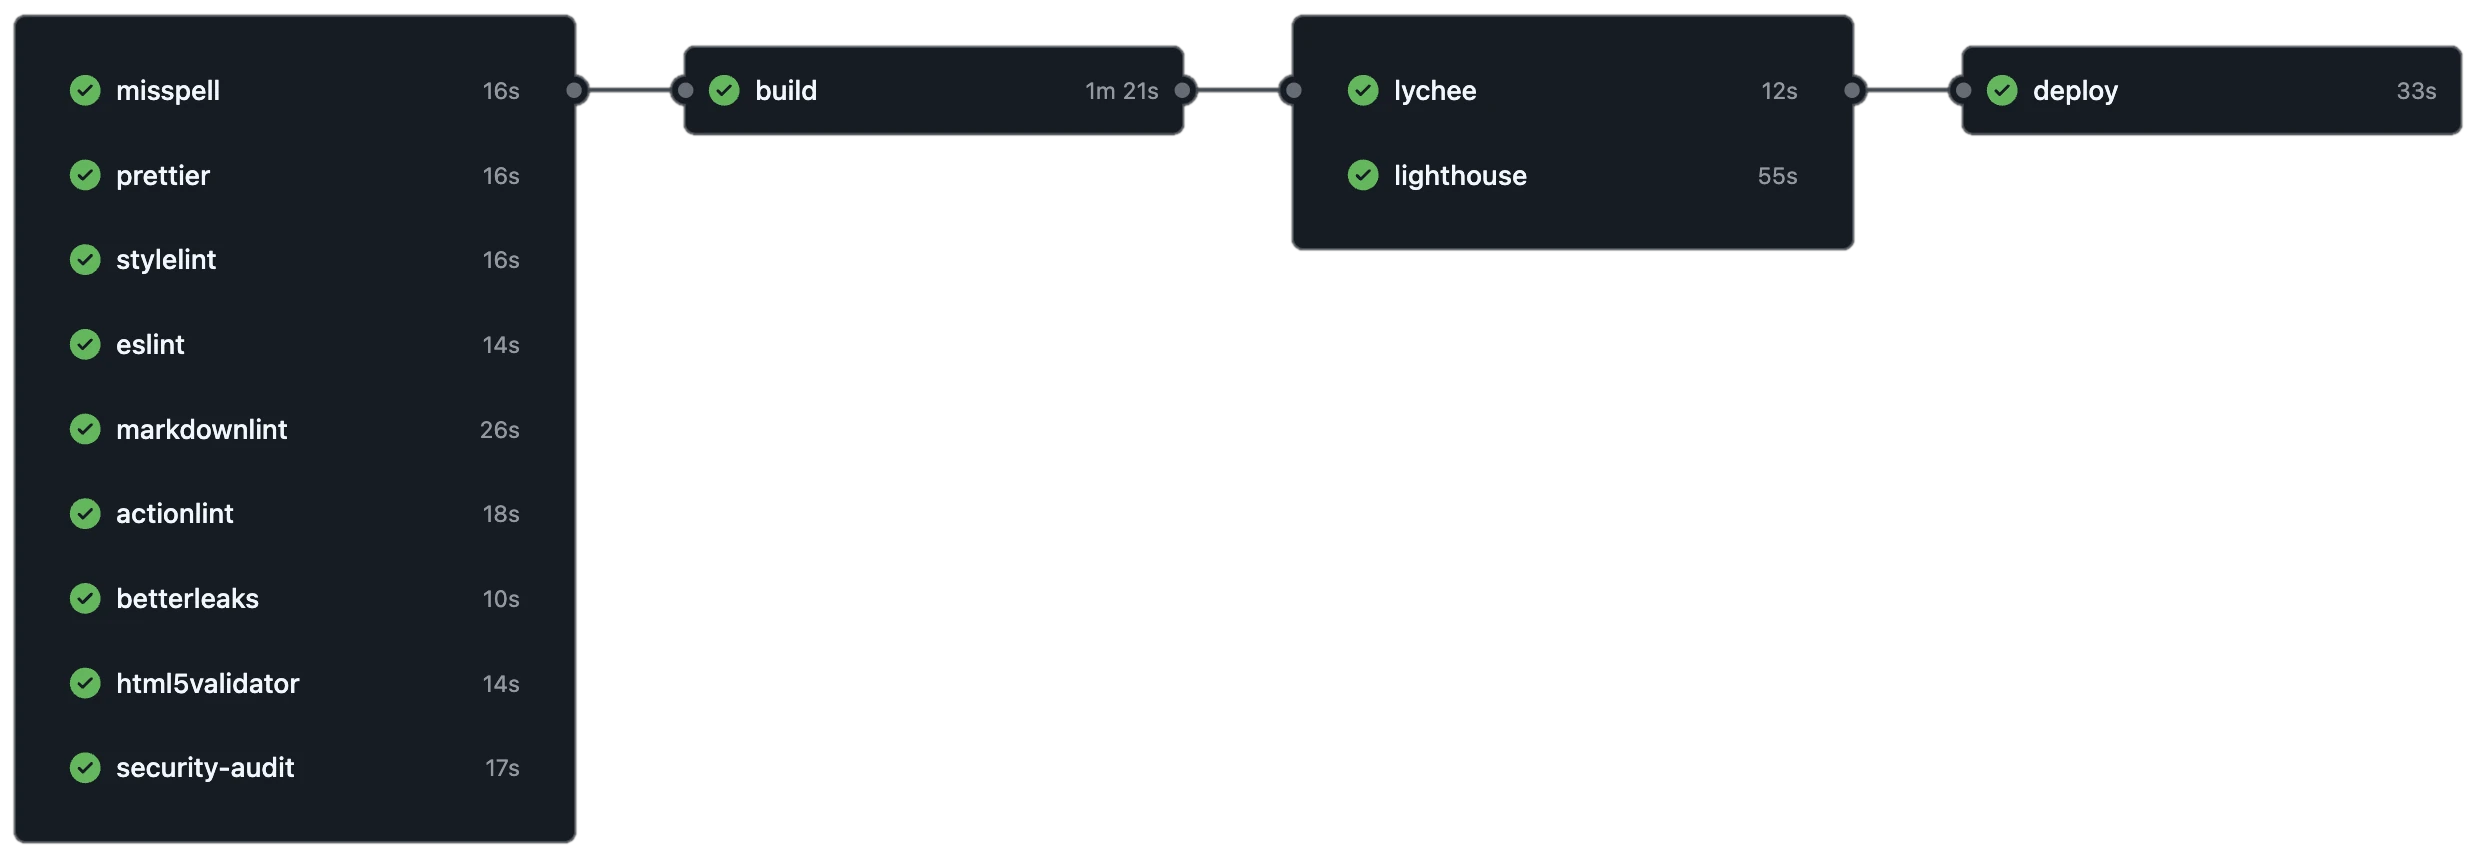
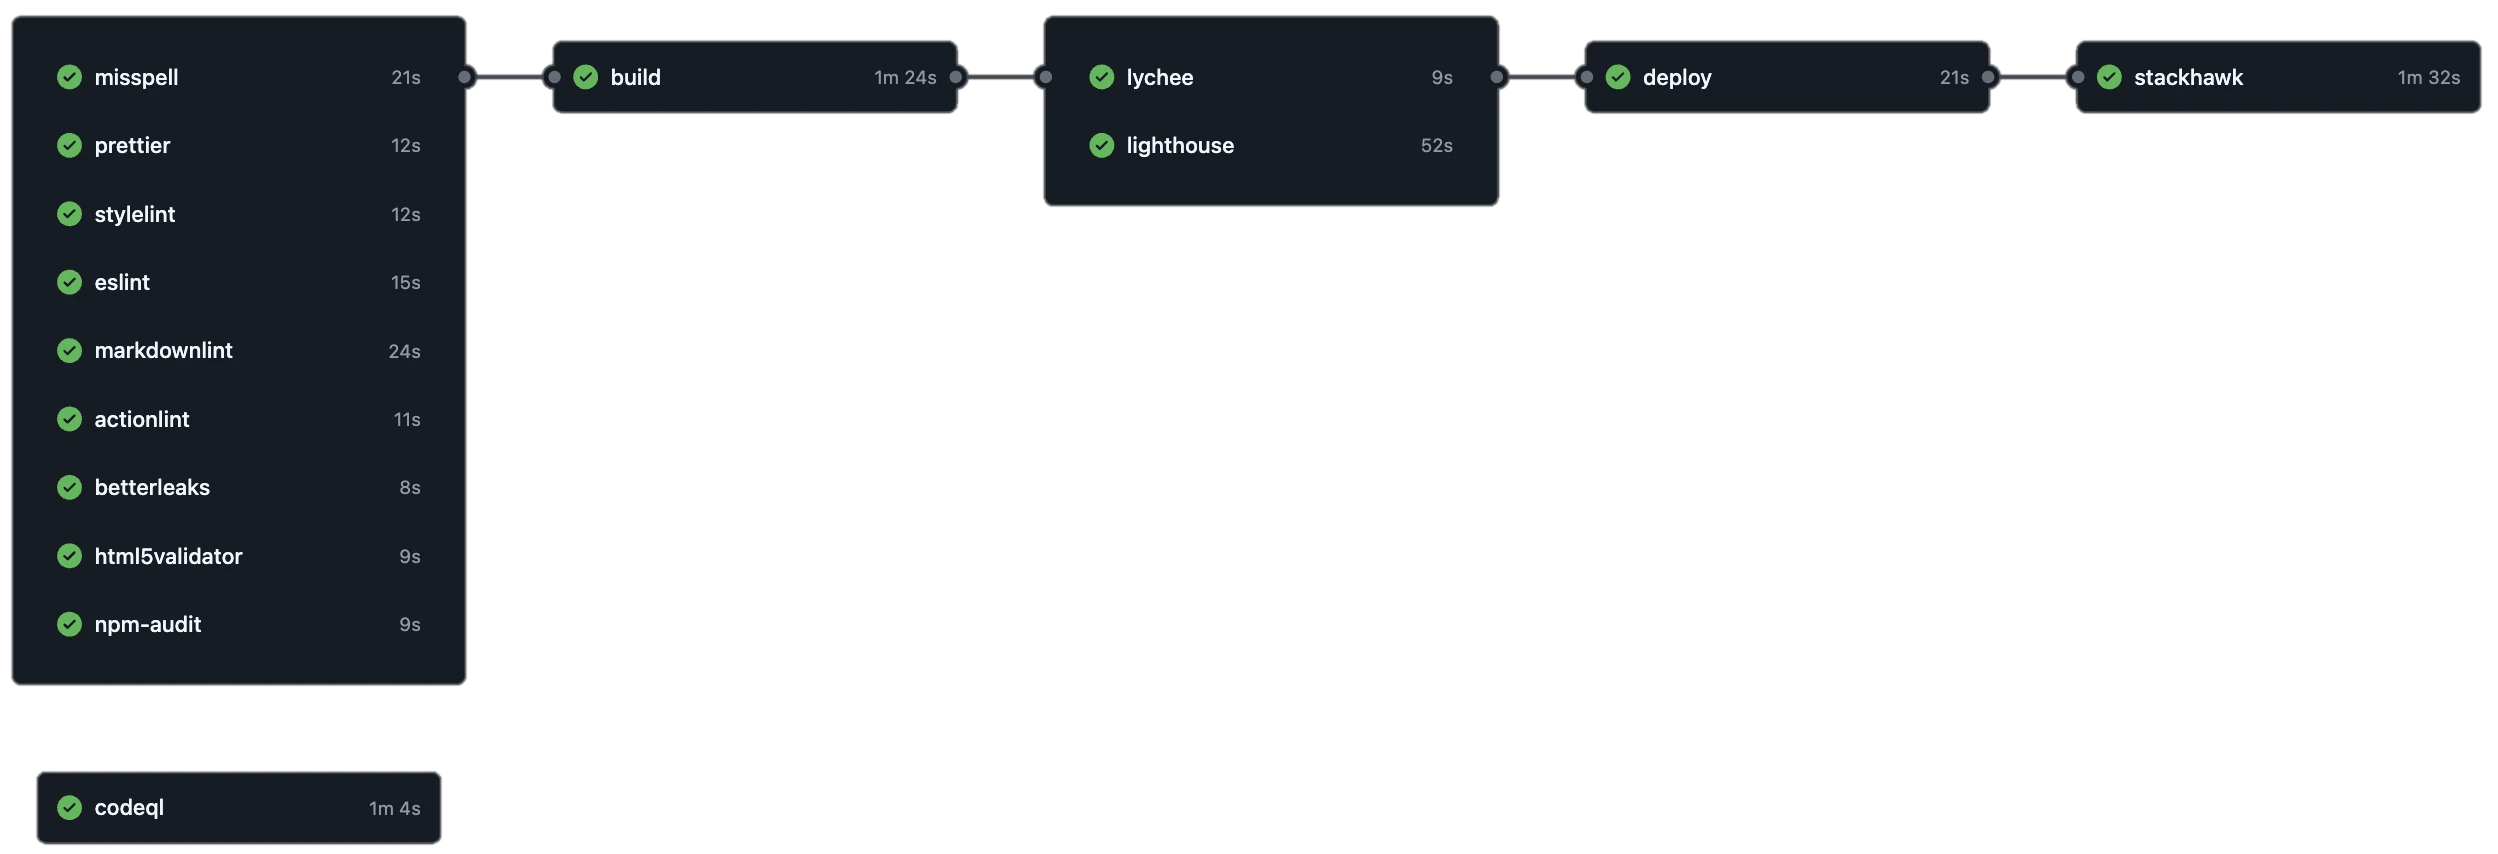
Added new CI/CD image and new job info. Moved Syft-Grype outside of build job.

diff --git a/src/index.html b/src/index.html
@@ -281,7 +281,7 @@
               <button
                 type="button"
                 class="hotspot"
-                style="top: 5%; left: 2%; width: 13%; height: 10%"
+                style="top: 5%; left: 1%; width: 17%; height: 8%"
                 data-description="Scans repository files for common English spelling mistakes and typos in source code and documentation."
                 data-url="https://github.com/golangci/misspell"
                 aria-label="misspell"
@@ -290,7 +290,7 @@
               <button
                 type="button"
                 class="hotspot"
-                style="top: 15%; left: 2%; width: 13%; height: 10%"
+                style="top: 13%; left: 1%; width: 17%; height: 8%"
                 data-description="Verifies that source files adhere to code formatting and style guidelines across the project."
                 data-url="https://prettier.io"
                 aria-label="prettier"
@@ -299,7 +299,7 @@
               <button
                 type="button"
                 class="hotspot"
-                style="top: 25%; left: 2%; width: 13%; height: 10%"
+                style="top: 21%; left: 1%; width: 17%; height: 8%"
                 data-description="Lints CSS and stylesheet files to enforce consistent conventions and catch syntax errors."
                 data-url="https://stylelint.io"
                 aria-label="stylelint"
@@ -308,7 +308,7 @@
               <button
                 type="button"
                 class="hotspot"
-                style="top: 35%; left: 2%; width: 13%; height: 10%"
+                style="top: 29%; left: 1%; width: 17%; height: 8%"
                 data-description="Analyzes JavaScript files to enforce coding standards, best practices, and potential runtime bugs."
                 data-url="https://eslint.org"
                 aria-label="eslint"
@@ -317,7 +317,7 @@
               <button
                 type="button"
                 class="hotspot"
-                style="top: 45%; left: 2%; width: 13%; height: 10%"
+                style="top: 37%; left: 1%; width: 17%; height: 8%"
                 data-description="Checks Markdown documentation for structure, formatting rules, and syntax correctness."
                 data-url="https://github.com/DavidAnson/markdownlint"
                 aria-label="markdownlint"
@@ -326,7 +326,7 @@
               <button
                 type="button"
                 class="hotspot"
-                style="top: 55%; left: 2%; width: 13%; height: 10%"
+                style="top: 45%; left: 1%; width: 17%; height: 8%"
                 data-description="Validates GitHub Actions workflow YAML files against static analysis rules and schemas."
                 data-url="https://rhysd.github.io/actionlint"
                 aria-label="actionlint"
@@ -335,7 +335,7 @@
               <button
                 type="button"
                 class="hotspot"
-                style="top: 65%; left: 2%; width: 13%; height: 10%"
+                style="top: 53%; left: 1%; width: 17%; height: 8%"
                 data-description="Scans repository history and commits for accidentally exposed secrets, API keys, and sensitive tokens."
                 data-url="https://betterleaks.com"
                 aria-label="betterleaks"
@@ -344,7 +344,7 @@
               <button
                 type="button"
                 class="hotspot"
-                style="top: 75%; left: 2%; width: 13%; height: 10%"
+                style="top: 61%; left: 1%; width: 17%; height: 8%"
                 data-description="Validates rendered or static HTML markup against W3C HTML5 specification standards."
                 data-url="https://html-validate.org"
                 aria-label="html5validator"
@@ -353,17 +353,26 @@
               <button
                 type="button"
                 class="hotspot"
-                style="top: 85%; left: 2%; width: 13%; height: 10%"
+                style="top: 69%; left: 1%; width: 17%; height: 8%"
                 data-description="Runs npm audit on package-lock.json to detect known security vulnerabilities in Node.js dependencies."
                 data-url="https://docs.npmjs.com/auditing-package-dependencies-for-security-vulnerabilities"
                 aria-label="npm-audit"
+              ></button>
+
+              <button
+                type="button"
+                class="hotspot"
+                style="top: 91%; left: 1%; width: 17%; height: 8%"
+                data-description="Performs semantic code analysis to discover security vulnerabilities and structural flaws across source code."
+                data-url="https://codeql.github.com"
+                aria-label="codeql"
               ></button>
 
               <!-- Column 2 -->
               <button
                 type="button"
                 class="hotspot"
-                style="top: 5%; left: 27.5%; width: 13%; height: 10%"
+                style="top: 5%; left: 22%; width: 16.5%; height: 8%"
                 data-description="Compiles assets, packages source code, and prepares static distribution files for deployment."
                 data-url=""
                 aria-label="build"
@@ -373,7 +382,7 @@
               <button
                 type="button"
                 class="hotspot"
-                style="top: 5%; left: 53%; width: 13%; height: 10%"
+                style="top: 5%; left: 42%; width: 18%; height: 8%"
                 data-description="Crawls built web pages to verify that hyperlink references are valid."
                 data-url="https://lychee.cli.rs"
                 aria-label="lychee"
@@ -382,7 +391,7 @@
               <button
                 type="button"
                 class="hotspot"
-                style="top: 15%; left: 53%; width: 13%; height: 10%"
+                style="top: 13%; left: 42%; width: 18%; height: 8%"
                 data-description="Executes automated Google Lighthouse audits to measure Performance, Accessibility, SEO, and Best Practices."
                 data-url="https://developer.chrome.com/docs/lighthouse"
                 aria-label="lighthouse"
@@ -392,10 +401,20 @@
               <button
                 type="button"
                 class="hotspot"
-                style="top: 5%; left: 79%; width: 13%; height: 10%"
+                style="top: 5%; left: 63.5%; width: 16%; height: 8%"
                 data-description="Publishes the verified production assets to Cloudflare Pages."
                 data-url="https://pages.cloudflare.com"
                 aria-label="deploy"
+              ></button>
+
+              <!-- Column 5 -->
+              <button
+                type="button"
+                class="hotspot"
+                style="top: 5%; left: 83%; width: 16%; height: 8%"
+                data-description="Runs dynamic application security testing (DAST) to find security vulnerabilities in running web applications and APIs."
+                data-url="https://www.stackhawk.com"
+                aria-label="stackhawk"
               ></button>
             </div>
           </div>

diff --git a/src/css/main.css b/src/css/main.css
@@ -59,7 +59,7 @@ html {
 
 #pipeline-img {
   display: block;
-  height: 400px;
+  height: 500px;
   min-width: 900px;
   max-width: none;
   width: auto;
